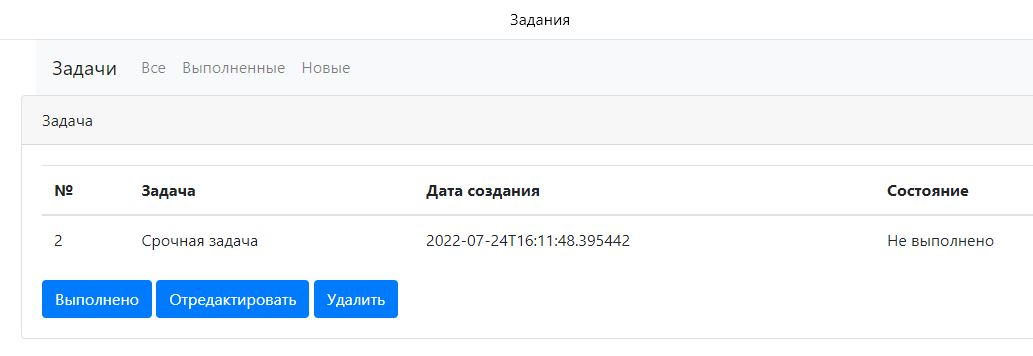
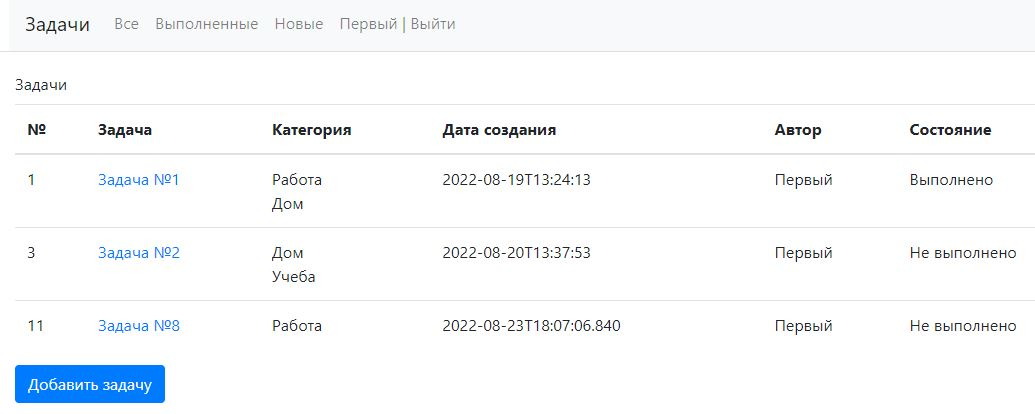
4. Категории в TODO List [#331991] - Readme add information

diff --git a/src/main/java/ru/job4j/control/ItemController.java b/src/main/java/ru/job4j/control/ItemController.java
@@ -10,7 +10,6 @@ import ru.job4j.model.Item;
 import ru.job4j.model.User;
 import ru.job4j.service.CategoryService;
 import ru.job4j.service.ItemService;
-import ru.job4j.util.ItemUtil;
 import ru.job4j.util.UserUtil;
 
 import javax.servlet.http.HttpServletRequest;
@@ -36,7 +35,7 @@ public class ItemController {
     @PostMapping("/add")
     public String create(@ModelAttribute Item item, HttpSession session, HttpServletRequest req) {
         String[] parameters = req.getParameterValues("category.id");
-        ItemUtil.setCategories(item, parameters, categoryService);
+        setCategories(item, parameters);
         User user = (User) session.getAttribute("user");
         item.setUser(user);
         itemService.create(item);
@@ -68,7 +67,7 @@ public class ItemController {
     @PostMapping("/complete")
     public String complete(Model model, @ModelAttribute Item item, HttpServletRequest req) {
         String[] parameters = req.getParameterValues("category.id");
-        ItemUtil.setCategories(item, parameters, categoryService);
+        setCategories(item, parameters);
         model.addAttribute("item", itemService.update(item));
         return "redirect:/detail/" + item.getId();
     }
@@ -76,9 +75,16 @@ public class ItemController {
     @PostMapping("/update")
     public String update(@ModelAttribute Item item, HttpServletRequest req) {
         String[] parameters = req.getParameterValues("category.id");
-        ItemUtil.setCategories(item, parameters, categoryService);
+        setCategories(item, parameters);
         itemService.update(item);
         return "redirect:/index";
+    }
+
+    public void setCategories(Item item, String[] parameters) {
+        for (String id : parameters) {
+            int categoryId = Integer.parseInt(id);
+            item.addCategory(categoryService.findById(categoryId));
+        }
     }
 
 }

diff --git a/src/main/java/ru/job4j/persistence/ItemDbStore.java b/src/main/java/ru/job4j/persistence/ItemDbStore.java
@@ -31,25 +31,25 @@ public class ItemDbStore {
 
     public List<Item> findAll() {
         return DbConnect.tx(session -> session.createQuery(
-                "select distinct i from Item i join fetch i.categories ORDER BY i.id")
+                "SELECT DISTINCT i FROM Item i JOIN FETCH i.categories ORDER BY i.id")
                 .list(), sf);
     }
 
     public Item findById(int id) {
         return (Item) DbConnect.tx(session -> session.createQuery(
-                "select distinct i from Item i join fetch i.categories where i.id = :fId")
+                "SELECT DISTINCT i FROM Item i JOIN FETCH i.categories WHERE i.id = :fId")
                         .setParameter("fId", id).uniqueResult(), sf);
     }
 
     public List<Item> findAllDone() {
         return DbConnect.tx(session -> session.createQuery(
-                "select distinct i from Item i join fetch i.categories where i.done = true ORDER BY i.id")
+                "SELECT DISTINCT i FROM Item i JOIN FETCH i.categories WHERE i.done = true ORDER BY i.id")
                 .list(), sf);
     }
 
     public List<Item> findAllToday() {
         return DbConnect.tx(session -> session.createQuery(
-                "select distinct i from Item i join fetch i.categories where i.created >= CURRENT_DATE ORDER BY i.id")
+                "SELECT DISTINCT i FROM Item i JOIN FETCH i.categories WHERE i.created >= CURRENT_DATE ORDER BY i.id")
                 .list(), sf);
     }
 

diff --git a/src/main/java/ru/job4j/persistence/CategoryDbStore.java b/src/main/java/ru/job4j/persistence/CategoryDbStore.java
@@ -16,11 +16,11 @@ public class CategoryDbStore {
     }
 
     public List<Category> findAll() {
-        return DbConnect.tx(session -> session.createQuery("from Category ORDER BY id").list(), sf);
+        return DbConnect.tx(session -> session.createQuery("FROM Category ORDER BY id").list(), sf);
     }
 
     public Category findById(int id) {
         return (Category) DbConnect.tx(session -> session.createQuery(
-                "from Category where id = :fId").setParameter("fId", id).uniqueResult(), sf);
+                "FROM Category WHERE id = :fId").setParameter("fId", id).uniqueResult(), sf);
     }
 }

diff --git a/README.md b/README.md
@@ -4,25 +4,50 @@
 ## Проект "TODO лист"
 Реализован функционал работы со списком задач.
 
+Используемые технологии:
+Spring boot, Thymeleaf, Bootstrap, Hibernate, PostgreSql, Liquibase
+Сборка: Maven
+
 ### Скриншоты web интерфейса.
 
-На главной странице мы видим список задач с их статусом выполнения и датой создания.
+Для начала работы необходимо зарегистрироваться и авторизоваться.
+![Alt-текст](https://github.com/ftptpf/job4j_todo/blob/master/src/main/resources/images/1.JPG "Регистрация")
+
+![Alt-текст](https://github.com/ftptpf/job4j_todo/blob/master/src/main/resources/images/2.JPG "Авторизация")
+
+На главной странице мы видим список задач - статус их выполнения, автора, дату создания и категории к которым они относятся.
 Нажимая на "Все", "Выполненные" и "Новые" мы соответственно можем отфильтровать вывод задач по данным признакам.
 
-![Alt-текст](https://github.com/ftptpf/job4j_todo/blob/master/src/main/resources/images/1.JPG "Главная")
+![Alt-текст](https://github.com/ftptpf/job4j_todo/blob/master/src/main/resources/images/3.JPG "Главная")
 
 Если на главной странице мы нажмем кнопку "Добавить задачу" 
 - мы попадем на страницу где сможем выполнить эту операцию.
 
-![Alt-текст](https://github.com/ftptpf/job4j_todo/blob/master/src/main/resources/images/2.JPG "Добавить задачу")
+![Alt-текст](https://github.com/ftptpf/job4j_todo/blob/master/src/main/resources/images/4.JPG "Добавить задачу")
 
 На главной странице кликаем на текст задачи - попадаем на страницу где у нас будет возможность:
 - установить задаче статус "Выполнено"
 - удалить задачу
 - отредактировать задачу
 
-![Alt-текст](https://github.com/ftptpf/job4j_todo/blob/master/src/main/resources/images/3.JPG "Детали задачи")
+![Alt-текст](https://github.com/ftptpf/job4j_todo/blob/master/src/main/resources/images/5.JPG "Детали задачи")
 
-![Alt-текст](https://github.com/ftptpf/job4j_todo/blob/master/src/main/resources/images/4.JPG "Редактирование задачи")
+![Alt-текст](https://github.com/ftptpf/job4j_todo/blob/master/src/main/resources/images/6.JPG "Редактирование задачи")
 
-![Alt-текст](https://github.com/ftptpf/job4j_todo/blob/master/src/main/resources/images/5.JPG "Главная после редактирования")
+![Alt-текст](https://github.com/ftptpf/job4j_todo/blob/master/src/main/resources/images/7.JPG "Главная после редактирования")
+
+### Запуск проекта.
+
+Для запуска проекта вам понадобится установить:
+JAVA 17+
+PostgreSQL 13+
+Intellij IDEA
+Настройки базы данных смотрите в файле db.properties проекта.
+Импортируйте данный проект в Intellij IDEA загрузив его с github.
+Запуск проекта выполните запустив метод main файла Main.java проекта.
+
+![Alt-текст](https://github.com/ftptpf/job4j_todo/blob/master/src/main/resources/images/8.JPG "Файл Main.java")
+
+![Alt-текст](https://github.com/ftptpf/job4j_todo/blob/master/src/main/resources/images/9.JPG "Запуск проекта")
+
+После запуска для начала работы с "TODO листом" перейдите по ссылке http://localhost:8080/index
